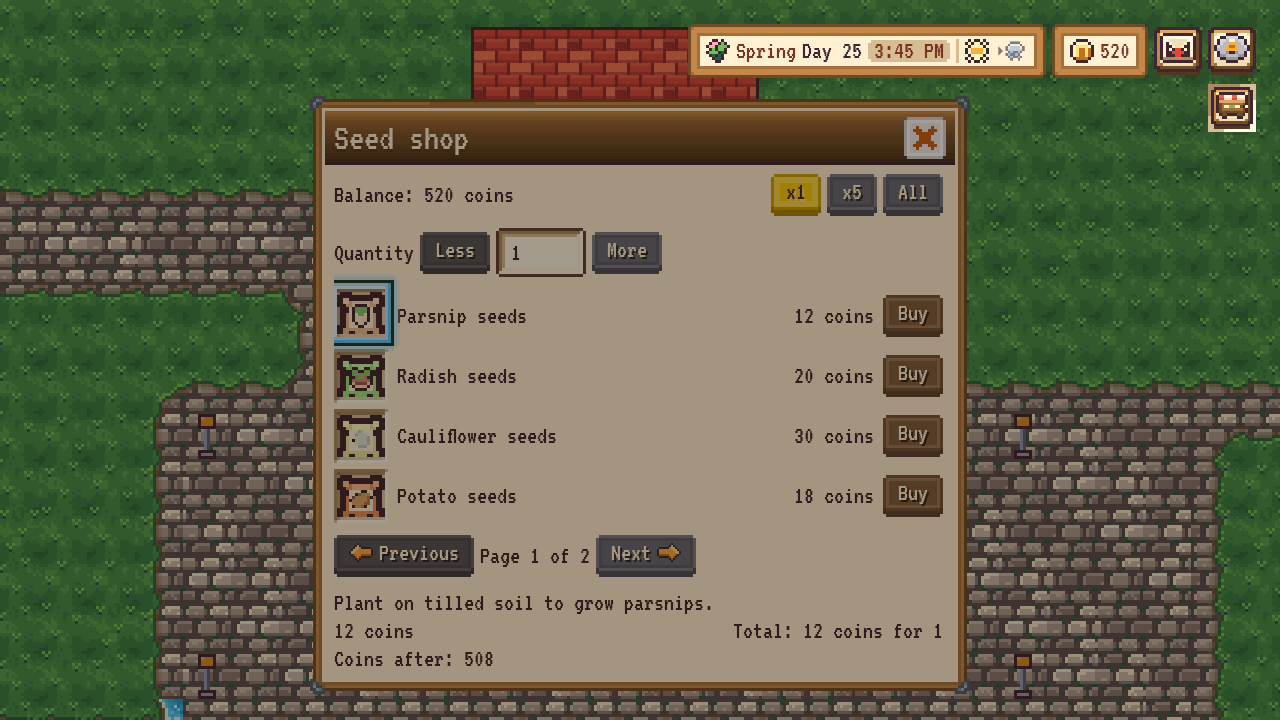
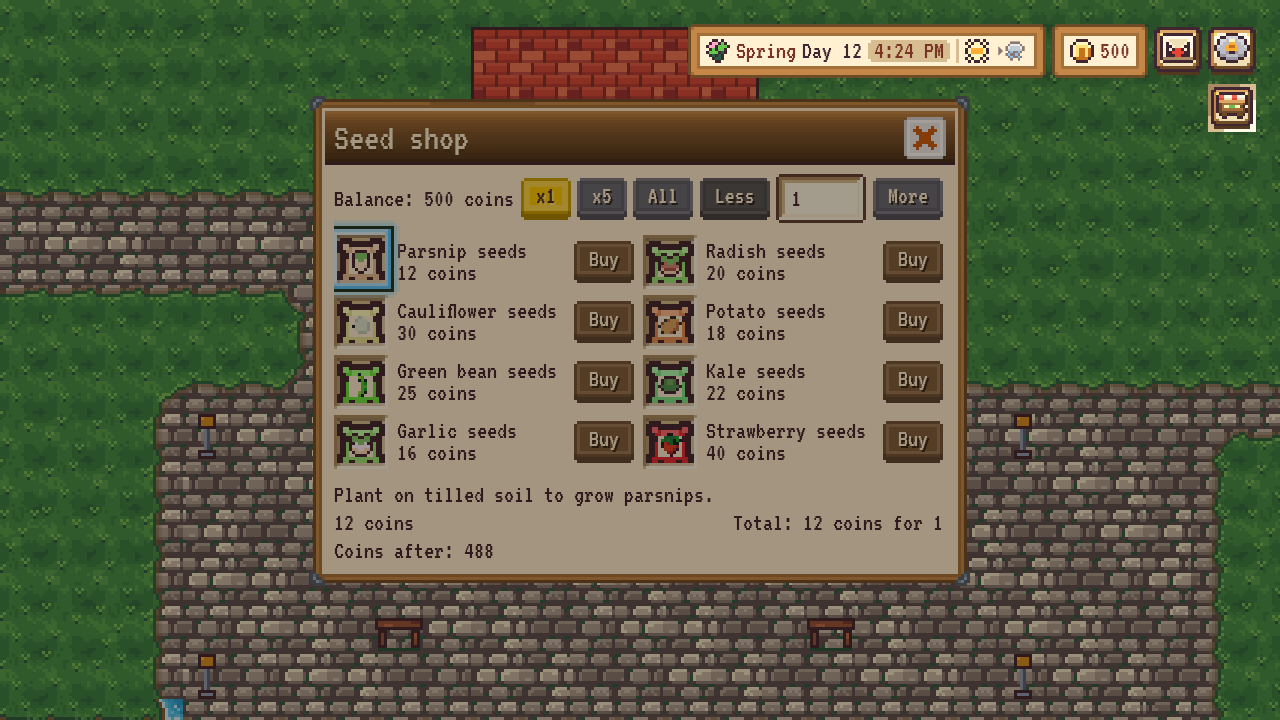
docs(qa): seed shop after-captures and metrics for the two-column layout

Changed region(s): [[0.2188, 0.2444, 0.7812, 0.9778], [0.6562, 0.0611, 0.7188, 0.0917], [0.5625, 0.7028, 0.5938, 0.7333]]

diff --git a/docs/qa/polish-leftovers/README.md b/docs/qa/polish-leftovers/README.md
@@ -19,7 +19,7 @@ retried in spring or summer.
 | 1 | Sprite publish guard | `PublishedSpritesTests` checks every `assets/` sprite the client requests (literals, bare names, animal and building catalogues) against the wasm csproj. It found that the duck, goat, pig and sheep sheets were not published, so buying one would 404. They are published now. | unit tests |
 | 2 | Palette generator | `palette.py` now emits `--nosum-leaf`, `--nosum-sky` and their comment, as the checked-in CSS has them. The retired `start_background.png` generator and its provenance row are removed. `repack_cc0_art.py --sources art/source --check` exits 0 with no output. | generator check |
 | 3 | Drop above the highlight | No code change. The drop is already queued after the reticle in the same command buffer, and the zoom shows the drop over the reticle's top-right bracket. | `target-thirsty-*-x4-zoom.png` |
-| 4 | Shop rows | The list shows as many whole rows as fit (4 at 1280x720, 8 at 390x844 in the probe), with no inner scroll. At 1920x1080 it shows 3 rows, not the aimed-for 8 (see deviations). | `shop-seedkeeper-*`, metrics |
+| 4 | Shop | Redesigned: balance, presets and stepper on one row; the item list is a two-column grid of compact rows (one column on phones); 8 items per page at 1280x720, 1920x1080 and 390x844, with no inner scroll. The detail strip stays at the bottom. | `shop-seedkeeper-*`, metrics |
 | 5 | Market Sell grid | The grid now has equal gaps to the panel body (0 and 0 in the measured page). The empty-state text had a 2 px overflow at 1920 that caused a scroll; fixed with one `u` of padding. | `market-sell-*`, metrics |
 | 6 | Withered crops | A dedicated dry, brown plant (Nosum's own drawing in `tools/art_repack/crops.py`, frame 1 of row 0 of `crops.png`) replaces the tinted stalk. Provenance row updated. | `withered-*`, `withered-tile-A-before-after-x4.png` |
 
@@ -27,9 +27,9 @@ Seed shop metrics (vi), body `clientHeight` and `scrollHeight`:
 
 | Size | Before | After |
 |:--|:--|:--|
-| 1280x720 | 4 rows, 499 / 499 | 4 rows, 499 / 499 |
-| 1920x1080 | 4 rows, dialog 900 px | 3 rows, 717 / 717 |
-| 390x844 | 4 rows | 8 rows, 500 / 500 |
+| 1280x720 | 4 rows in one column, 499 / 499 | 8 items, two columns, 391 / 391 |
+| 1920x1080 | 4 rows in one column, dialog 900 px | 8 items, two columns, 637 / 637 |
+| 390x844 | 4 rows in one column | 8 items, one column, 460 / 460 |
 
 Market Sell grid, gap to the body edges (left / right): before 0 / 3 px at 1280, 0 / 5 px at 1920, 0 / 2 px at 390. After 0 / 0 at all three.
 
@@ -43,7 +43,7 @@ This is the lead's own check from the captures and metrics, not an independent r
 4. Edges line up: yes. The market grid's gaps are equal on both sides.
 5. Panels use `GamePanel` with the shared S/M/L/XL widths: unchanged.
 6. Three font sizes; nothing clipped: yes. No new font sizes. The market empty-state text no longer runs past its box.
-7. No inner scrollbar at 1280x720 and above: yes, in every captured shop and market state (metrics above). The 1920 shop shows 3 rows, not 8, to achieve this.
+7. No inner scrollbar at 1280x720 and above: yes, in every captured shop and market state (metrics above).
 8. Item icons whole and centred: unchanged.
 9. Spacing in `--u` multiples: yes. The market wrapper uses `margin-right: -1u` to fill the body's padding; the shop uses the measured row count only.
 10. Vietnamese and English both fit: the captures exist in both. The 1920 shop image checked by eye is vi; en has identical metrics.
@@ -51,6 +51,6 @@ This is the lead's own check from the captures and metrics, not an independent r
 ## Deviations from the brief
 
 - **Item 3** needed no code change. The highlight was never drawn after the drop in the code; the capture confirms the drop sits on top.
-- **Item 4**, the 1920x1080 shop shows 3 rows instead of 8. With the seed shop's detail strip, 4 rows overflow the window at 1920 (817 px of body in a 743 px box). The row floor is 3 so the window never scrolls. Making 8 rows fit there would need a shorter detail strip, a design change this polish pass did not make.
+- **Item 4** was first fixed with a row list and then redesigned after review: the seed shop's list is now a two-column grid of compact rows, so 8 items fit at 1280x720 and 1920x1080. The pager and multi-page paging were not exercised in the browser, because all 8 seed offers fit on one page in season.
 - **Item 4**, the trader's Buy list is the Market panel's Buy tab, not `ShopPanel`. The captures use the seed shop, which is the `ShopPanel` with the item rows.
 - **Item 6**: one shared withered frame for every crop, not one per crop.
